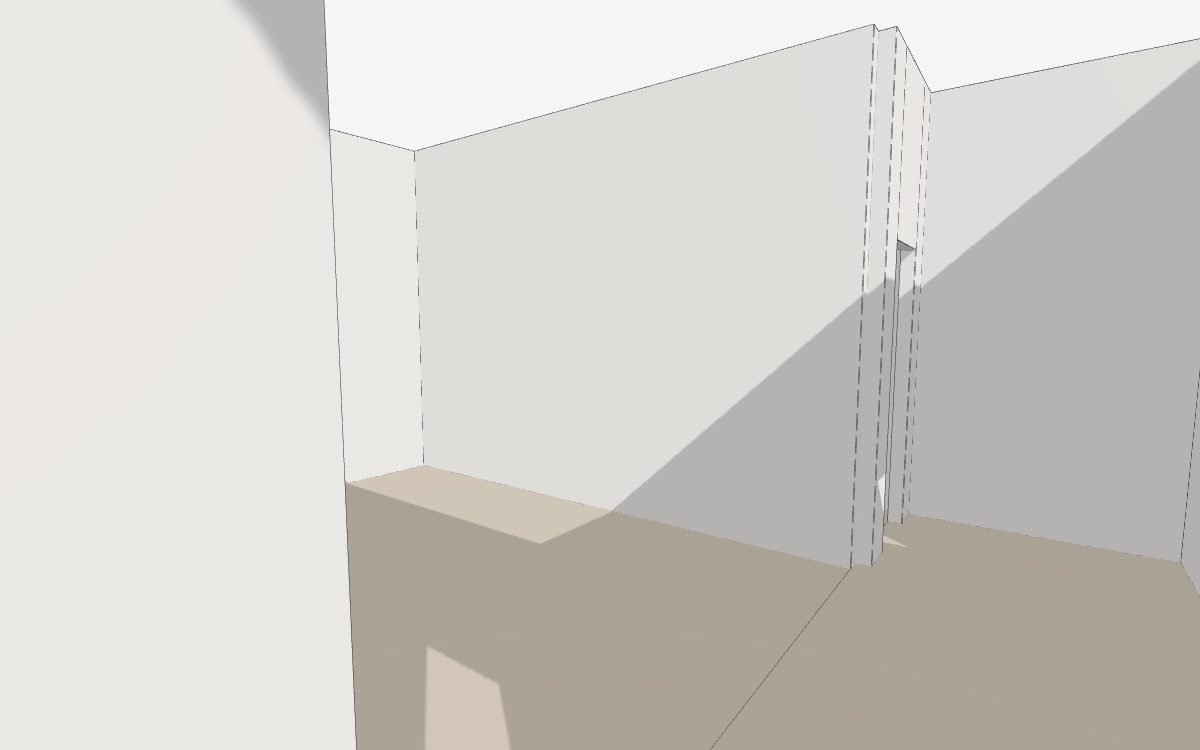
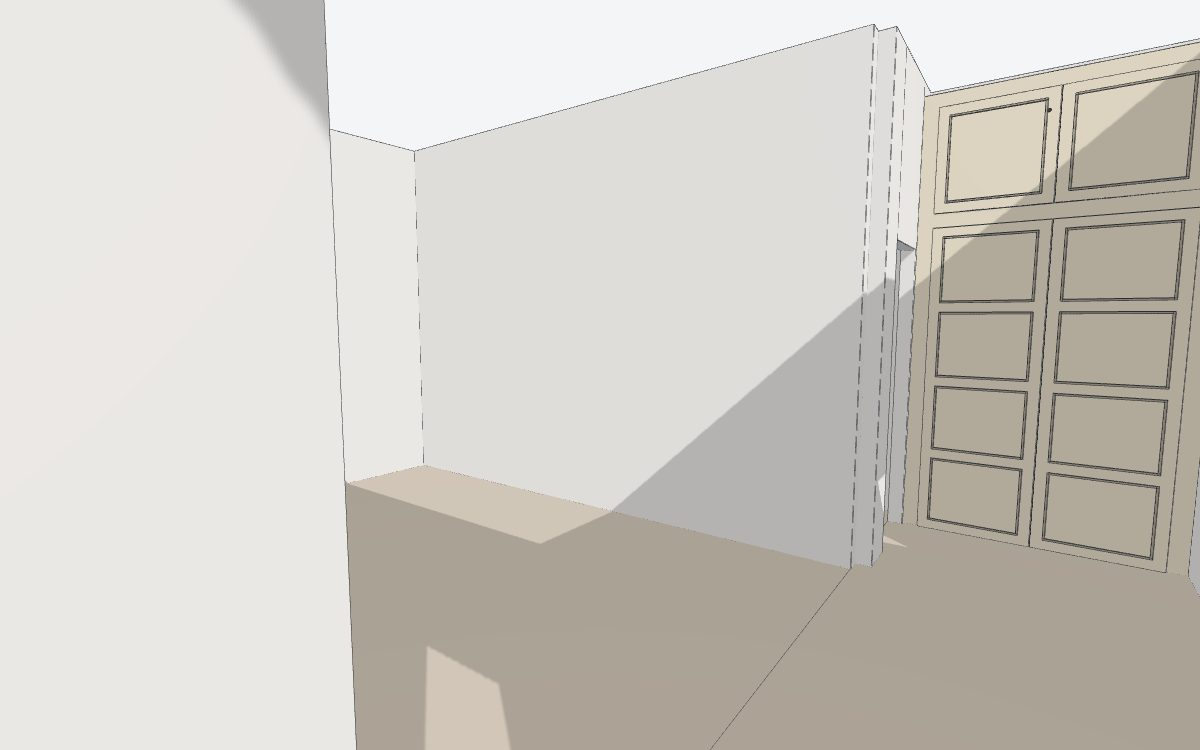
casa-poggi: built-in wardrobe on the east end wall of the ingresso
Claude-Session: https://claude.ai/code/session_017Czcnh6xzZxgGSwco7M1Pu

Changed region(s): [[0.74, 0.0307, 1.0, 0.7667]]

diff --git a/projects/casa-poggi/house.js b/projects/casa-poggi/house.js
@@ -3,7 +3,7 @@
 // Source: floor plan PDF "Planimetria_Casa_Poggi_Milano_modificata" (stato di fatto). "measured" = printed on the drawing, "estimate" = guessed.
 // Basic shell only: walls, openings, floor, balconies. No furniture, no materials yet (neutral colours).
 const path = require('path');
-const kit = require('../../scripts/scene-kit').createScene({ defaultOn: ['porte'] });
+const kit = require('../../scripts/scene-kit').createScene({ defaultOn: ['porte', 'armadio'] });
 const { box, wall, slab, tube, group, defGroup } = kit;
 
 // ---------- dimensions (cm) ----------
@@ -107,6 +107,31 @@ balcony('Balcone_Cortile', 0, 330, YS1 + TE, YS1 + TE + BALC_D, 1);
 balcony('Balcone_Via_Poggi', XC0 - TE, XC0 + 210, -TE - BALC_D, -TE, -1);
 
 const out = process.argv[2] || path.join(__dirname, 'scene.json');
+// built-in wardrobe on the east end wall of the ingresso (from the user's photos): full corridor width, 10 cm side frames,
+// 2 upper doors (1 panel, lock on the right one) + 2 tall lower doors (4 panels)   width/depth/top gap measured, split heights estimate
+{ const W = { d: 25, side: 10, top: H - 10, split: 225, rail: 10, c: [232, 222, 200, 255], line: [175, 165, 145, 255] };
+  const xf = XR - W.d, y0 = YI0, y1 = YI1, yd0 = y0 + W.side, yd1 = y1 - W.side, ym = (yd0 + yd1) / 2;
+  group('armadio', () => {
+    box('/Armadio/Corpo', W.c, xf, y0, 0, XR, y1, W.top);
+    const leaf = (n, ya, yb, za, zb, rows) => {
+      box(`/Armadio/${n}`, W.c, xf - 2, ya + 0.3, za + 0.3, xf, yb - 0.3, zb - 0.3);
+      const m = 7, ph = (zb - za - m * (rows + 1)) / rows;
+      for (let r = 0; r < rows; r++) {
+        const z0 = za + m + r * (ph + m), z1 = z0 + ph;
+        box(`/Armadio/${n}_Riquadro${r + 1}_S`, W.line, xf - 2.6, ya + m, z0, xf - 2, yb - m, z0 + 1.2);
+        box(`/Armadio/${n}_Riquadro${r + 1}_N`, W.line, xf - 2.6, ya + m, z1 - 1.2, xf - 2, yb - m, z1);
+        box(`/Armadio/${n}_Riquadro${r + 1}_O`, W.line, xf - 2.6, ya + m, z0, xf - 2, ya + m + 1.2, z1);
+        box(`/Armadio/${n}_Riquadro${r + 1}_E`, W.line, xf - 2.6, yb - m - 1.2, z0, xf - 2, yb - m, z1);
+      }
+    };
+    leaf('Anta_Bassa_Sx', yd0, ym, 0, W.split, 4);
+    leaf('Anta_Bassa_Dx', ym, yd1, 0, W.split, 4);
+    leaf('Anta_Alta_Sx', yd0, ym, W.split + W.rail, W.top - W.rail, 1);
+    leaf('Anta_Alta_Dx', ym, yd1, W.split + W.rail, W.top - W.rail, 1);
+    tube('/Armadio/Serratura', [80, 60, 40, 255], [[xf - 2, ym + 6, W.split + 70], [xf - 3, ym + 6, W.split + 70]], [1, 1]);
+  });
+  defGroup('armadio', 'Armadio a muro', 'Arredi'); }
+
 kit.write(out, {
   camera: kit.camera([-25, (ENTRY.from + ENTRY.to) / 2, 160], [300, 820, 120], 65),   // default view: standing in the front doorway, looking into ingresso and soggiorno
   spawn: kit.spawn([30, YI0 + 80], 0),
